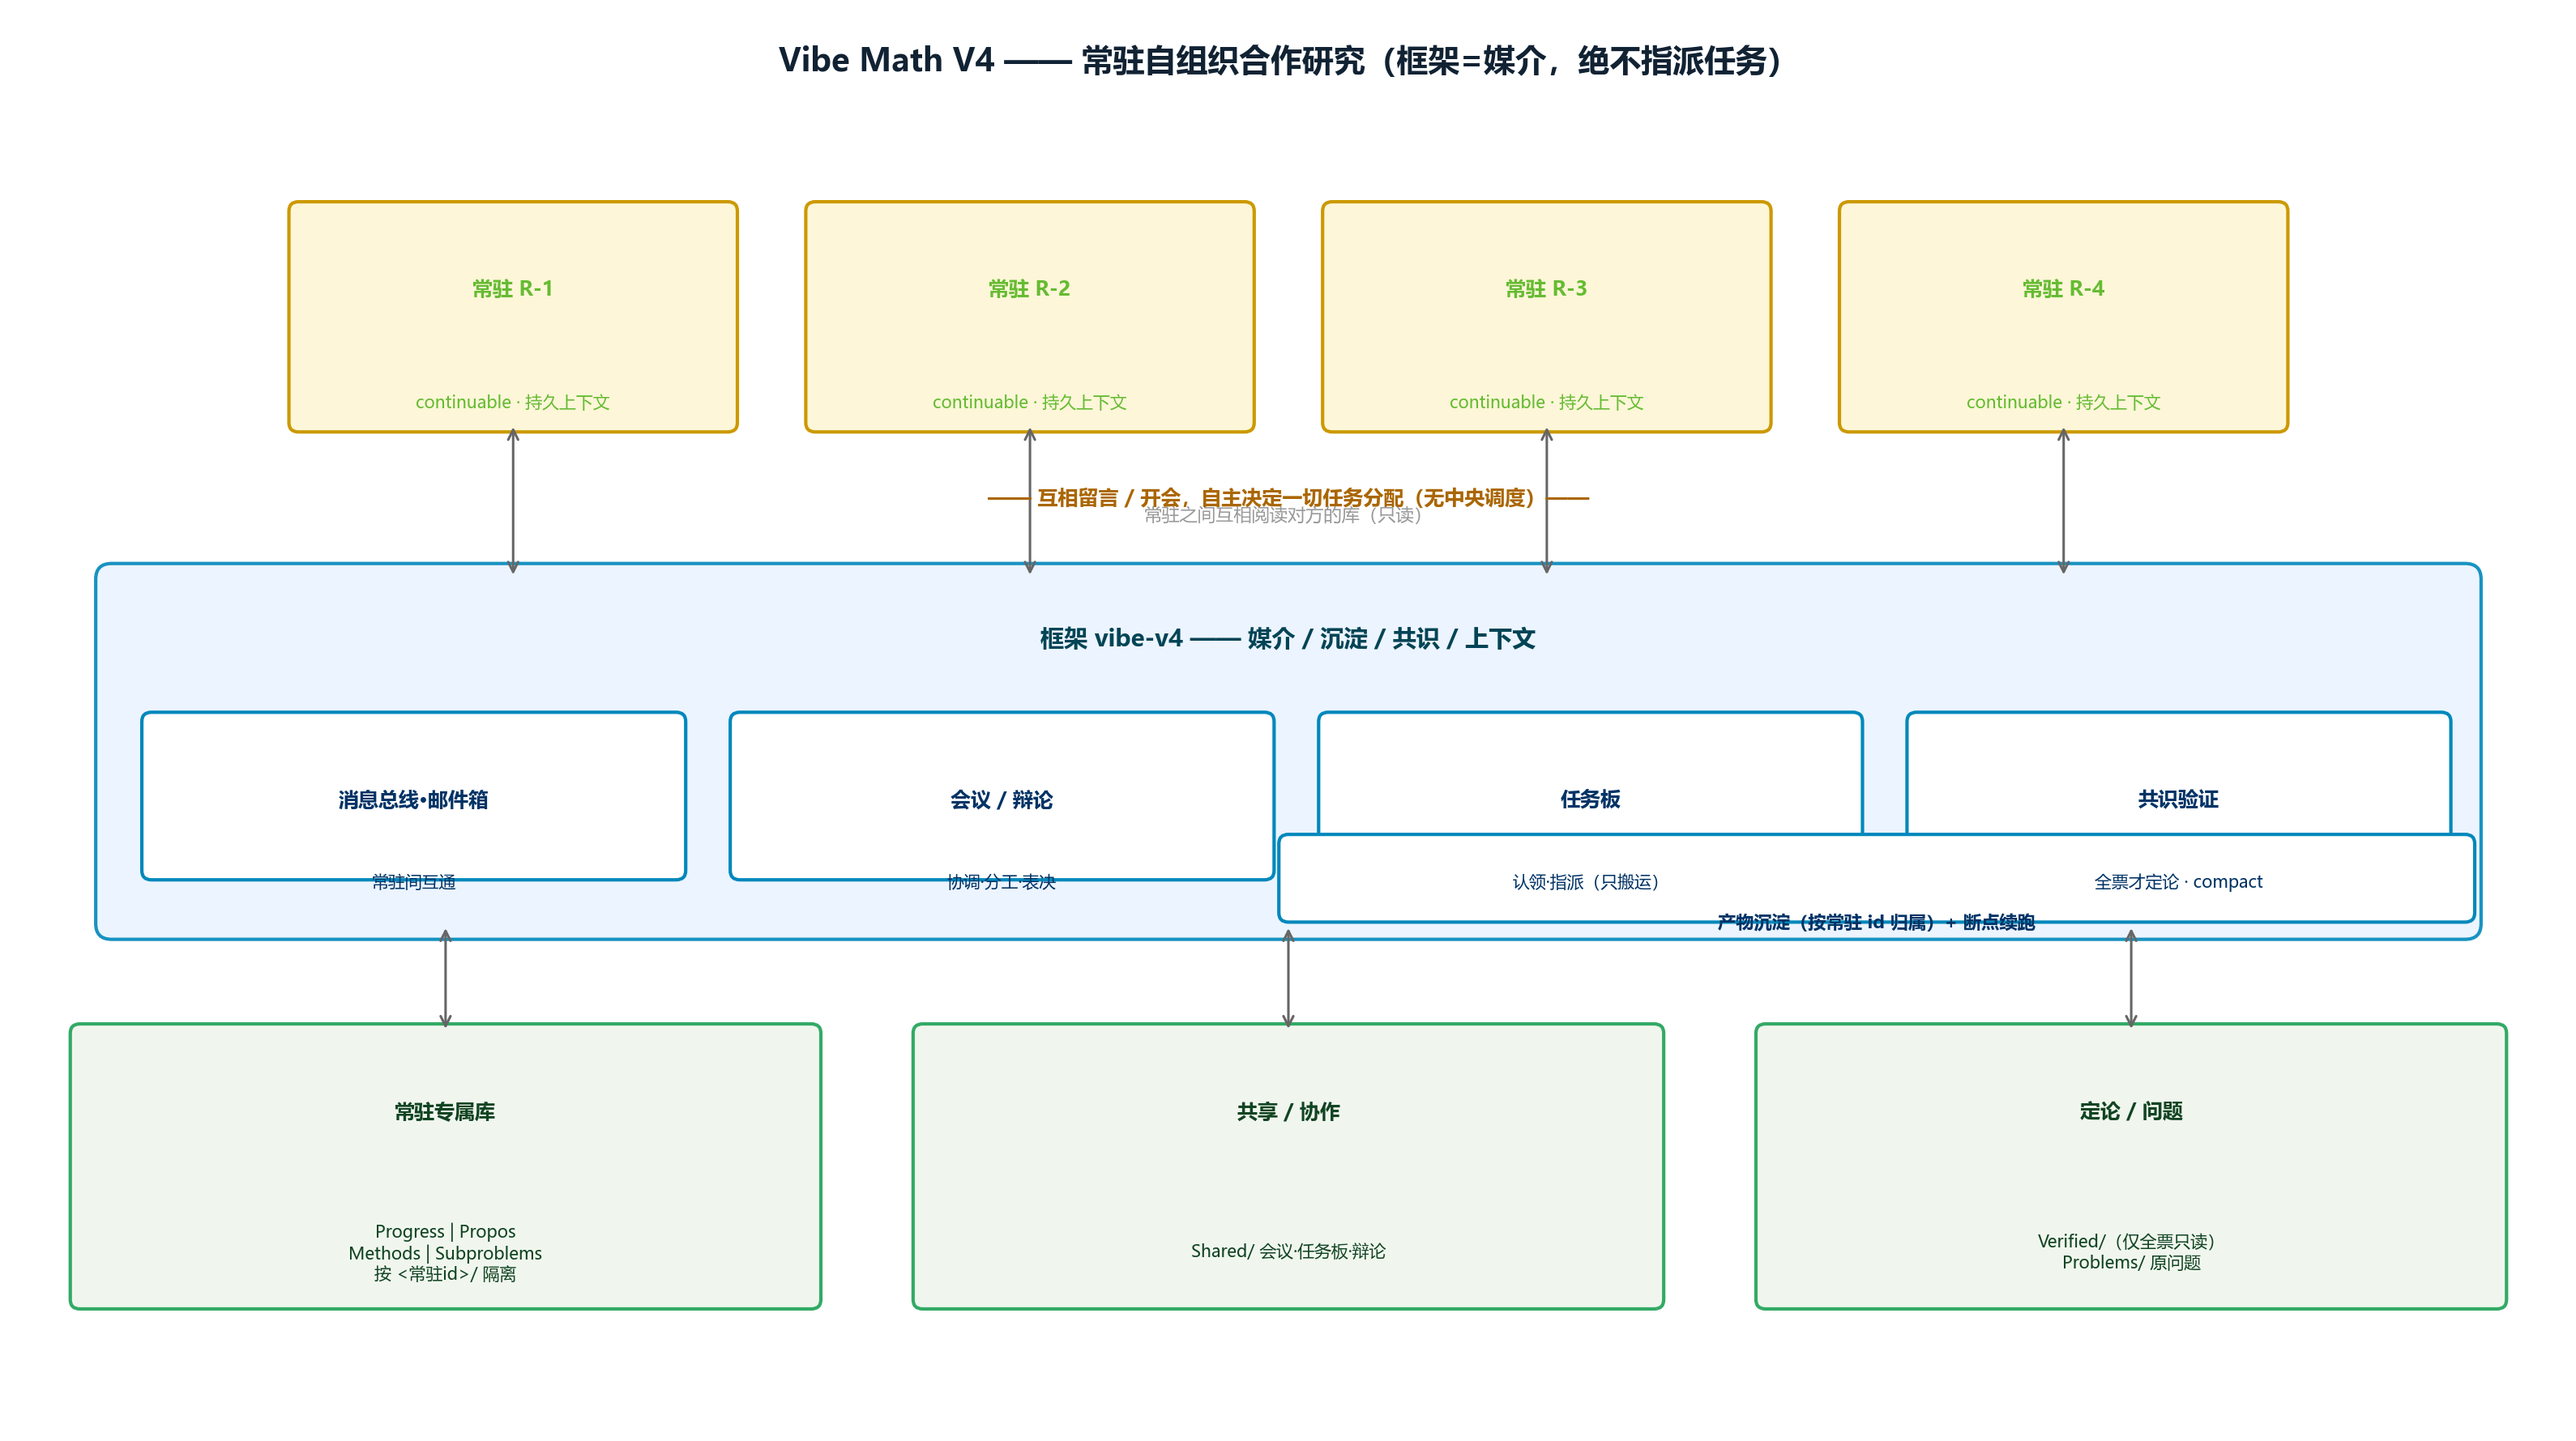
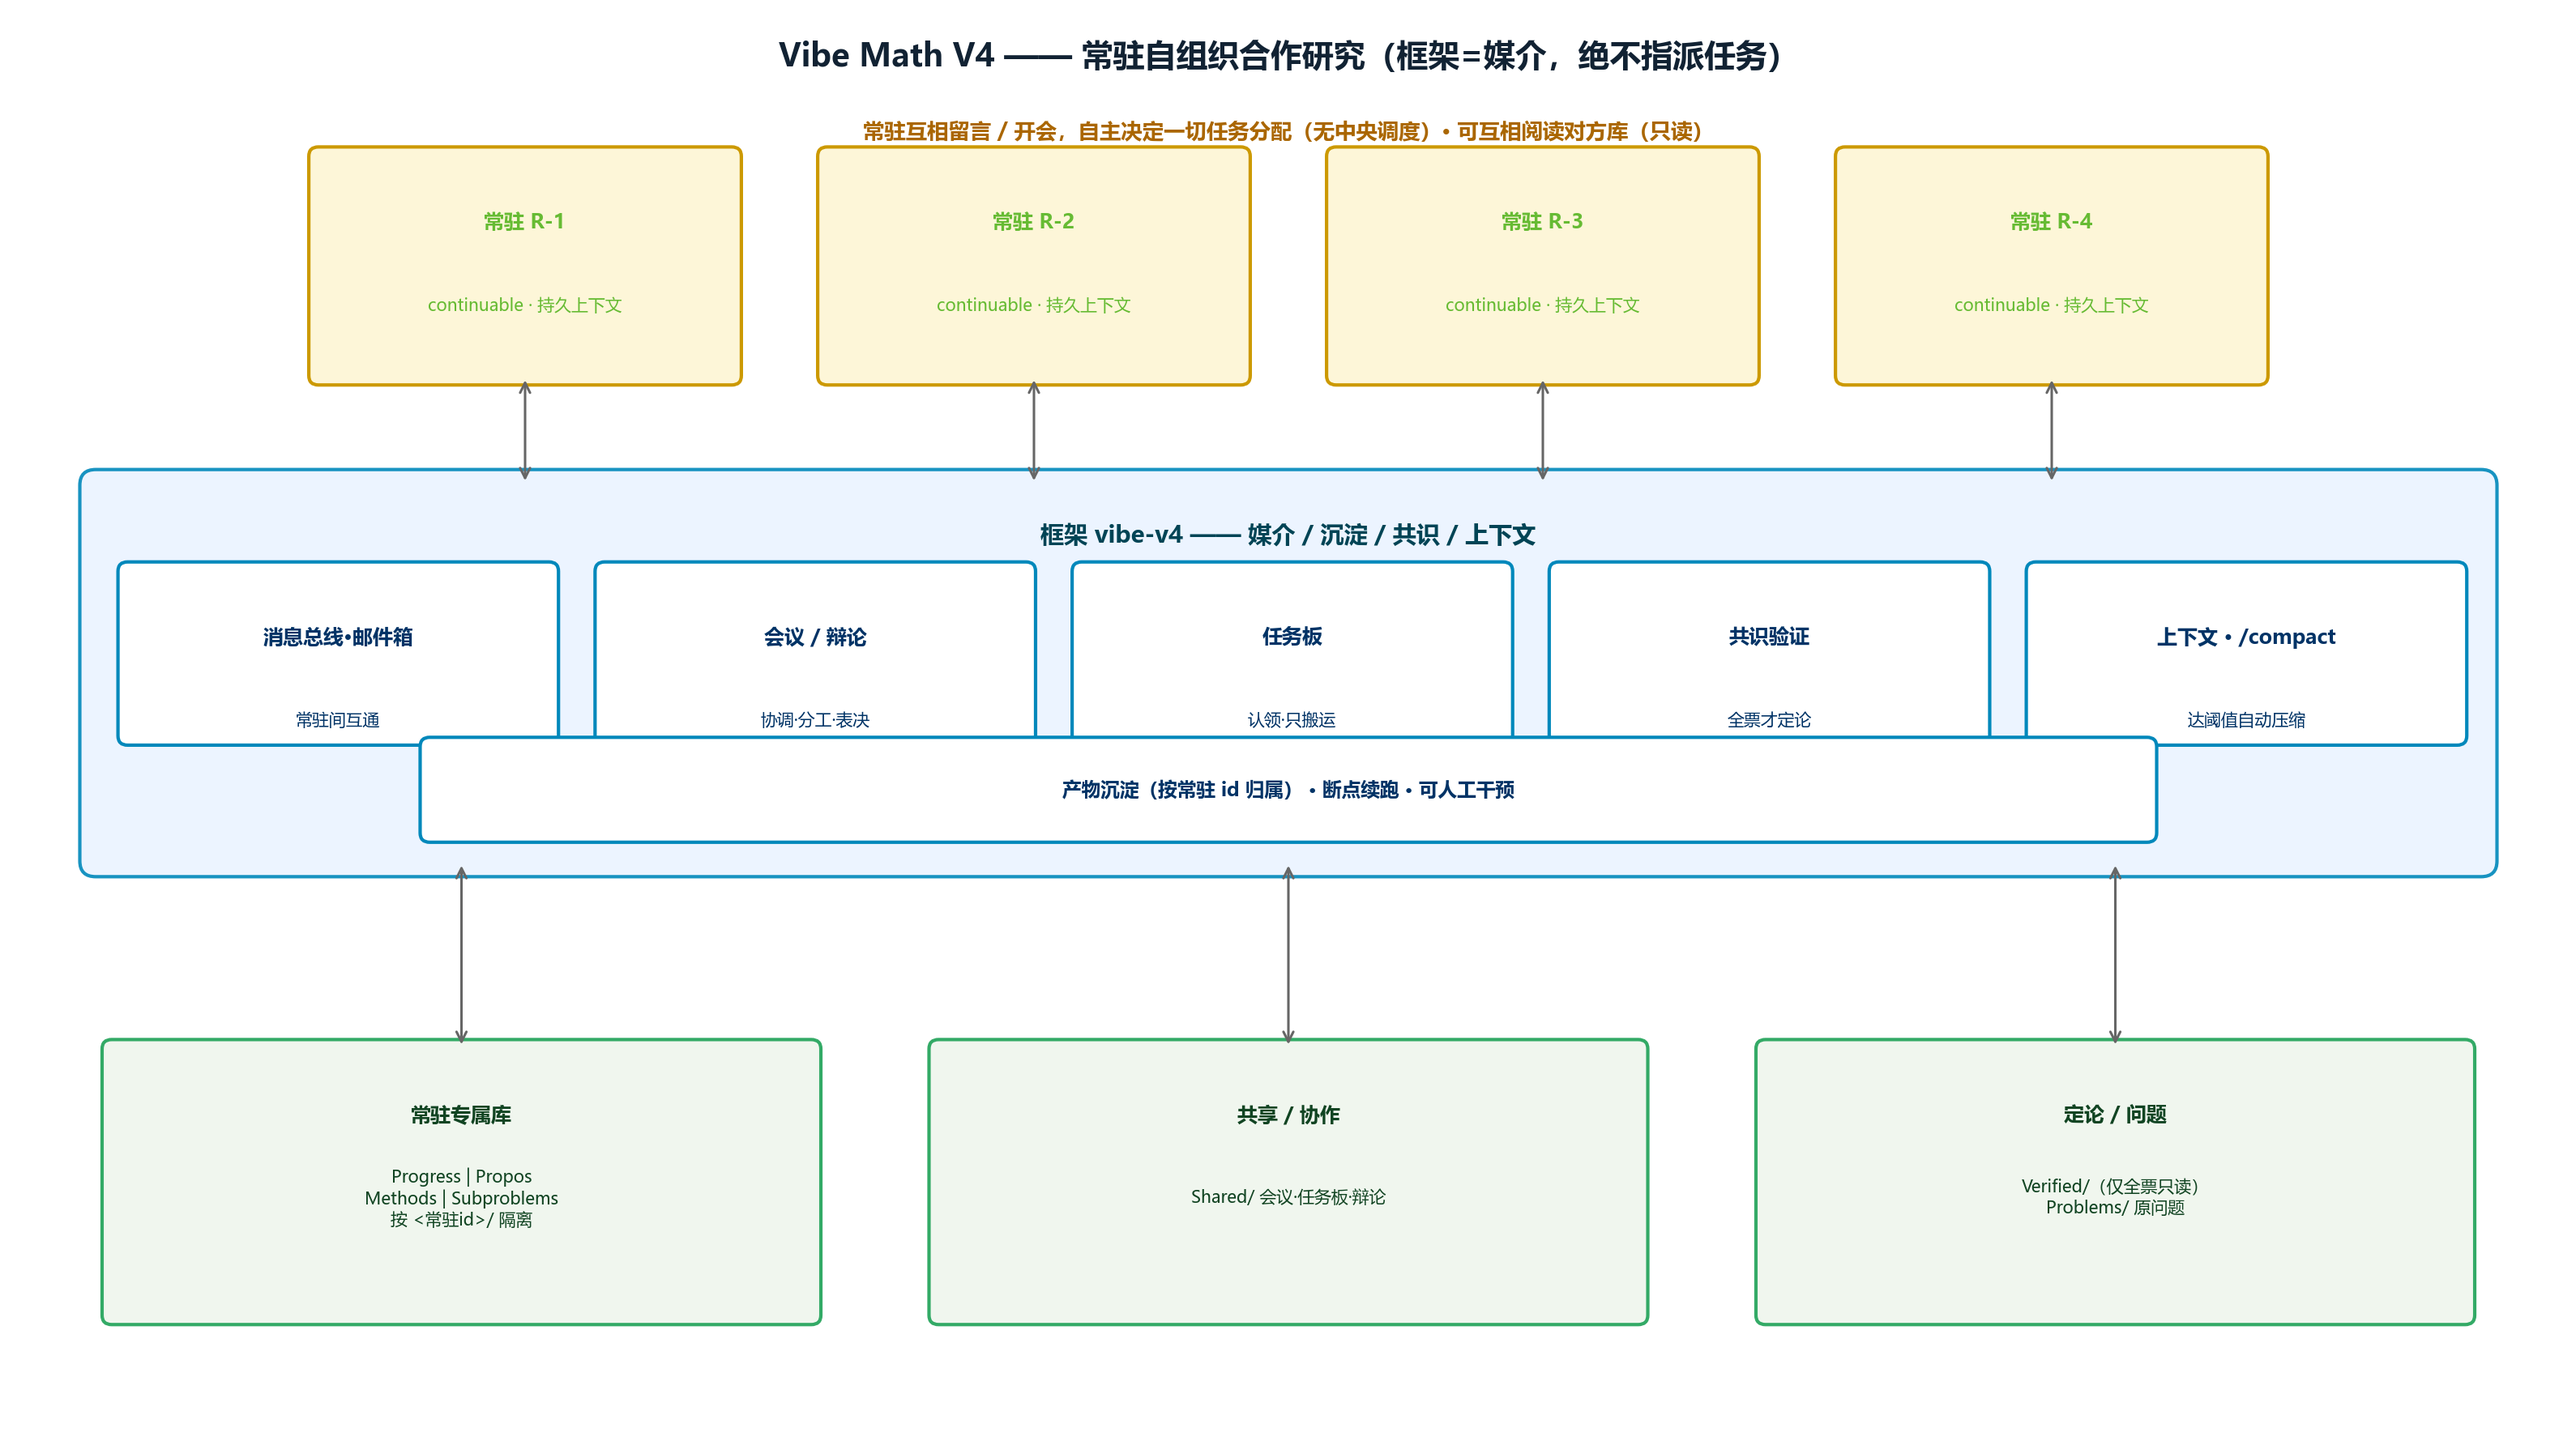
v1.3.4: v4 和谐修复——重排框架图-v4消除文字/箭头重叠遮挡(子标签不溢出/compact移入独立上下文块/底部沉淀条居中) + 修正人格deadlines与文档不存在的vibe_v4_inject

diff --git a/docs/generate_framework_diagram_v4.py b/docs/generate_framework_diagram_v4.py
@@ -12,41 +12,47 @@ fig, ax = plt.subplots(figsize=(W, H), dpi=200)
 ax.axis('off'); ax.set_xlim(0, W); ax.set_ylim(0, H)
 
 def card(x, y, w, h, title, sub='', fc='#eef', ec='#38b', fs=9, sfs=7.5, tc='#123'):
+    # title sits near the top, sub just below it, BOTH inside the box (never overflow)
     ax.add_patch(FancyBboxPatch((x, y), w, h, boxstyle='round,pad=0.06', fc=fc, ec=ec, lw=1.5))
-    ax.text(x + w/2, y + h - 0.5, title, ha='center', va='center', fontsize=fs, weight='bold', color=tc)
     if sub:
-        ax.text(x + w/2, y + h/2 - 0.55, sub, ha='center', va='center', fontsize=sfs, color=tc)
+        ax.text(x + w/2, y + h - 0.42, title, ha='center', va='center', fontsize=fs, weight='bold', color=tc)
+        ax.text(x + w/2, y + h - 0.95, sub, ha='center', va='center', fontsize=sfs, color=tc)
+    else:
+        ax.text(x + w/2, y + h/2, title, ha='center', va='center', fontsize=fs, weight='bold', color=tc)
 
 def arrow(x1, y1, x2, y2, both=True, color='#666'):
     ax.add_patch(FancyArrowPatch((x1, y1), (x2, y2), arrowstyle='<->' if both else '->', mutation_scale=11, color=color, lw=1.1))
 
-ax.text(W/2, H-0.35, 'Vibe Math V4 —— 常驻自组织合作研究（框架=媒介，绝不指派任务）', ha='center', fontsize=14, weight='bold', color='#123')
+# ---- title + subtitle (both ABOVE the resident row, so no arrow crosses them) ----
+ax.text(W/2, H - 0.32, 'Vibe Math V4 —— 常驻自组织合作研究（框架=媒介，绝不指派任务）', ha='center', fontsize=14, weight='bold', color='#123')
+ax.text(W/2, H - 0.78, '常驻互相留言 / 开会，自主决定一切任务分配（无中央调度）· 可互相阅读对方库（只读）', ha='center', fontsize=9.5, color='#a60', weight='bold')
 
 # ---- residents row (top, 4 cards, centered) ----
 res = [('R-1', '方向A'), ('R-2', '方向B'), ('R-3', '方向C'), ('R-4', '…')]
-rw = 2.7; rgap = 0.55; rx0 = (W - (4*rw + 3*rgap))/2
-ry = 6.4; rh = 1.35
+rw = 2.6; rgap = 0.6; rx0 = (W - (4*rw + 3*rgap))/2
+ry = 6.7; rh = 1.4
 res_x = []
 for i,(nm,d) in enumerate(res):
     x = rx0 + i*(rw+rgap); res_x.append(x)
     card(x, ry, rw, rh, '常驻 '+nm, 'continuable · 持久上下文', fc='#fdf6d8', ec='#c90', tc='#6b3')
-ax.text(W/2, ry - 0.52, '—— 互相留言 / 开会，自主决定一切任务分配（无中央调度）——', ha='center', fontsize=9, color='#a60', weight='bold')
 
-# ---- framework band (middle, container with 4 function chips) ----
-band_y = 3.2; band_h = 2.2; band_x = 0.6; band_w = W-1.2
+# ---- framework band (middle): 5 capability chips + a bottom strip ----
+band_x = 0.5; band_w = W - 1.0; band_y = 3.6; band_h = 2.4   # 3.6 .. 6.0
 ax.add_patch(FancyBboxPatch((band_x, band_y), band_w, band_h, boxstyle='round,pad=0.1', fc='#eaf3ff', ec='#08b', lw=1.5, alpha=0.9))
-ax.text(band_x + band_w/2, band_y + band_h - 0.42, '框架 vibe-v4 —— 媒介 / 沉淀 / 共识 / 上下文', ha='center', fontsize=10.5, weight='bold', color='#045')
-chips = [('消息总线·邮件箱', '常驻间互通'), ('会议 / 辩论', '协调·分工·表决'), ('任务板', '认领·指派（只搬运）'), ('共识验证', '全票才定论 · compact')]
-cw = band_w/4 - 0.4; cy = band_y + 0.34; chh = band_h - 1.25
+ax.text(band_x + band_w/2, band_y + band_h - 0.36, '框架 vibe-v4 —— 媒介 / 沉淀 / 共识 / 上下文', ha='center', fontsize=10.5, weight='bold', color='#045')
+chips = [('消息总线·邮件箱', '常驻间互通'), ('会议 / 辩论', '协调·分工·表决'), ('任务板', '认领·只搬运'), ('共识验证', '全票才定论'), ('上下文 · /compact', '达阈值自动压缩')]
+cw = band_w/5 - 0.35; cy = band_y + 0.80; chh = 1.05   # chips: 4.4 .. 5.45
 for i,(t,s) in enumerate(chips):
-    cx = band_x + 0.25 + i*(band_w/4)
+    cx = band_x + 0.20 + i*(band_w/5)
     card(cx, cy, cw, chh, t, s, fc='#ffffff', ec='#08b', fs=9, sfs=7.5, tc='#036')
-card(band_x + band_w/2, band_y + 0.07, band_w/2, 0.44, '产物沉淀（按常驻 id 归属）+ 断点续跑', sub='', fc='#ffffff', ec='#08b', fs=8, tc='#036')
+# bottom capability strip (properly inside the band, below the chips)
+strip_y = band_y + 0.18; strip_h = 0.55; strip_w = band_w * 0.72
+card(band_x + (band_w - strip_w)/2, strip_y, strip_w, strip_h, '产物沉淀（按常驻 id 归属） · 断点续跑 · 可人工干预', sub='', fc='#ffffff', ec='#08b', fs=8.5, tc='#036')
 
 # ---- knowledge row (bottom, 3 groups centered) ----
 kb = [('常驻专属库', 'Progress | Propos\nMethods | Subproblems\n按 <常驻id>/ 隔离'), ('共享 / 协作', 'Shared/ 会议·任务板·辩论'), ('定论 / 问题', 'Verified/（仅全票只读）\nProblems/ 原问题')]
-kw = 4.6; kgap = 0.7; kx0 = (W - (3*kw + 2*kgap))/2
-ky = 0.8; kh = 1.7
+kw = 4.4; kgap = 0.8; kx0 = (W - (3*kw + 2*kgap))/2
+ky = 0.7; kh = 1.7
 kb_x = []
 for i,(t,s) in enumerate(kb):
     x = kx0 + i*(kw+kgap); kb_x.append(x)
@@ -58,7 +64,5 @@ for x in res_x:
 for x in kb_x:
     arrow(x + kw/2, band_y, x + kw/2, ky + kh)
 
-# small labels
-ax.text(W/2, ry-0.62, '常驻之间互相阅读对方的库（只读）', ha='center', fontsize=8, color='#999')
 plt.tight_layout(); plt.savefig('示例图/框架图-v4.png', bbox_inches='tight', dpi=200)
-print('saved 示例图/框架图-v4.png (v2 layout)')
+print('saved 示例图/框架图-v4.png (v3 layout)')

diff --git a/vibe-math-v4/实现方案.md b/vibe-math-v4/实现方案.md
@@ -124,7 +124,7 @@ VibeMath/Projects/<project>/
 | **共识验证** | `vibe_v4_propose_verify(targetId)` → 常驻们同意后开辩论 | 独立初评→公开辩论→**全票真/假才入 Verified/**；否则留库附概率 |
 | **停止条件** | 会议中全体常驻对"原问题已解决"投票，**全部同意** → 停止唤醒 | 人工 `abort` 始终可用 |
 | **上下文/compact** | 监测每常驻上下文占比 ≥ 阈值 → 触发 DSH `/compact` | `compactThreshold` 默认 66，可调 |
-| **人工/助手干预** | `vibe_v4_message(all, content)` / `vibe_v4_meeting` / `vibe_v4_add_member` / `remove_member` / `vibe_v4_inject`；`/v4` slash | 不改变"之后由它们自组织" |
+| **人工/助手干预** | `vibe_v4_message(all, content)` / `vibe_v4_meeting` / `vibe_v4_add_member` / `remove_member` / `vibe_v4_message(to, content)`；`/v4` slash | 不改变"之后由它们自组织" |
 
 ---
 
@@ -272,7 +272,7 @@ VibeMath/Projects/<project>/
 - **P3 会议 + 任务板 + 决策**：`meeting`/taskboard/decisions；分工涌现。
 - **P4 产物沉淀**：`record_proposition/method/subproblem` + `publish_progress`（价值/动机/概率必填校验）。
 - **P5 共识验证**：`propose_verify` + 独立初评 + 公开辩论 + 全票闭环；`Verified/` 生成与来源库回写。
-- **P6 停止 + 干预 + 恢复**：stop-vote(全票 solved)/abort/pause/resume；`add_member/remove_member/inject/message(all)`。
+- **P6 停止 + 干预 + 恢复**：stop-vote(全票 solved)/abort/pause/resume；`add_member/remove_member/message(all)`。
 - **P7 测试**：`selfdrive-v4.mjs`（常驻互相留言/开会/沉淀/共识验证/compact/停止 的全流程记录器）；E2E 断言：消息送达、会议记录、仅全票入 Verified、未全票留库附概率、compact 触发、仅全体一致才 stop、resume。
 
 ---

diff --git a/README.md b/README.md
@@ -51,6 +51,8 @@
 > 🔧 **v1.3.2 审计修复**：修复上下文压缩按占比失效（`contextPct` 单位错配，现按百分比保存）、常驻工具按"调用者身份"路由（各常驻库归属正确）、`vibe_v4_read_progress` 真正返回文本、跨进程断点续跑重建常驻、`message(all)` 广播真正投递、`addMember` 增开无 id 碰撞。详见 `vibe-math-v4/实现方案.md` §17。
 >
 > 🔧 **v1.3.3 审计修复**：非全票验证把平均概率写回源卡（兑现"留库附概率"）、方法型验证标 `类型: 方法`（不再误标命题）、同进程 abort→resume 重建常驻、记录命题也触发自动同步会议、唤醒信号改用 `activityTimeoutMs`、`verdictMaxRounds`/`meetingKeepEvery` 可调且展示。详见 §18。
+>
+> 🔧 **v1.3.4 和谐修复**：重排 `框架图-v4.png` 消除文字/箭头重叠遮挡（子标签不再溢出框、`/compact` 移入独立的"上下文"能力块、底部"产物沉淀·断点续跑"居中排布）；补齐 `agent.cordis.yml` 常驻描述中的"deadlines"一词（v4 并无截止机制），并移除 `实现方案.md` 中不存在的 `vibe_v4_inject`（实际用 `vibe_v4_message`）。
 
 ---
 
